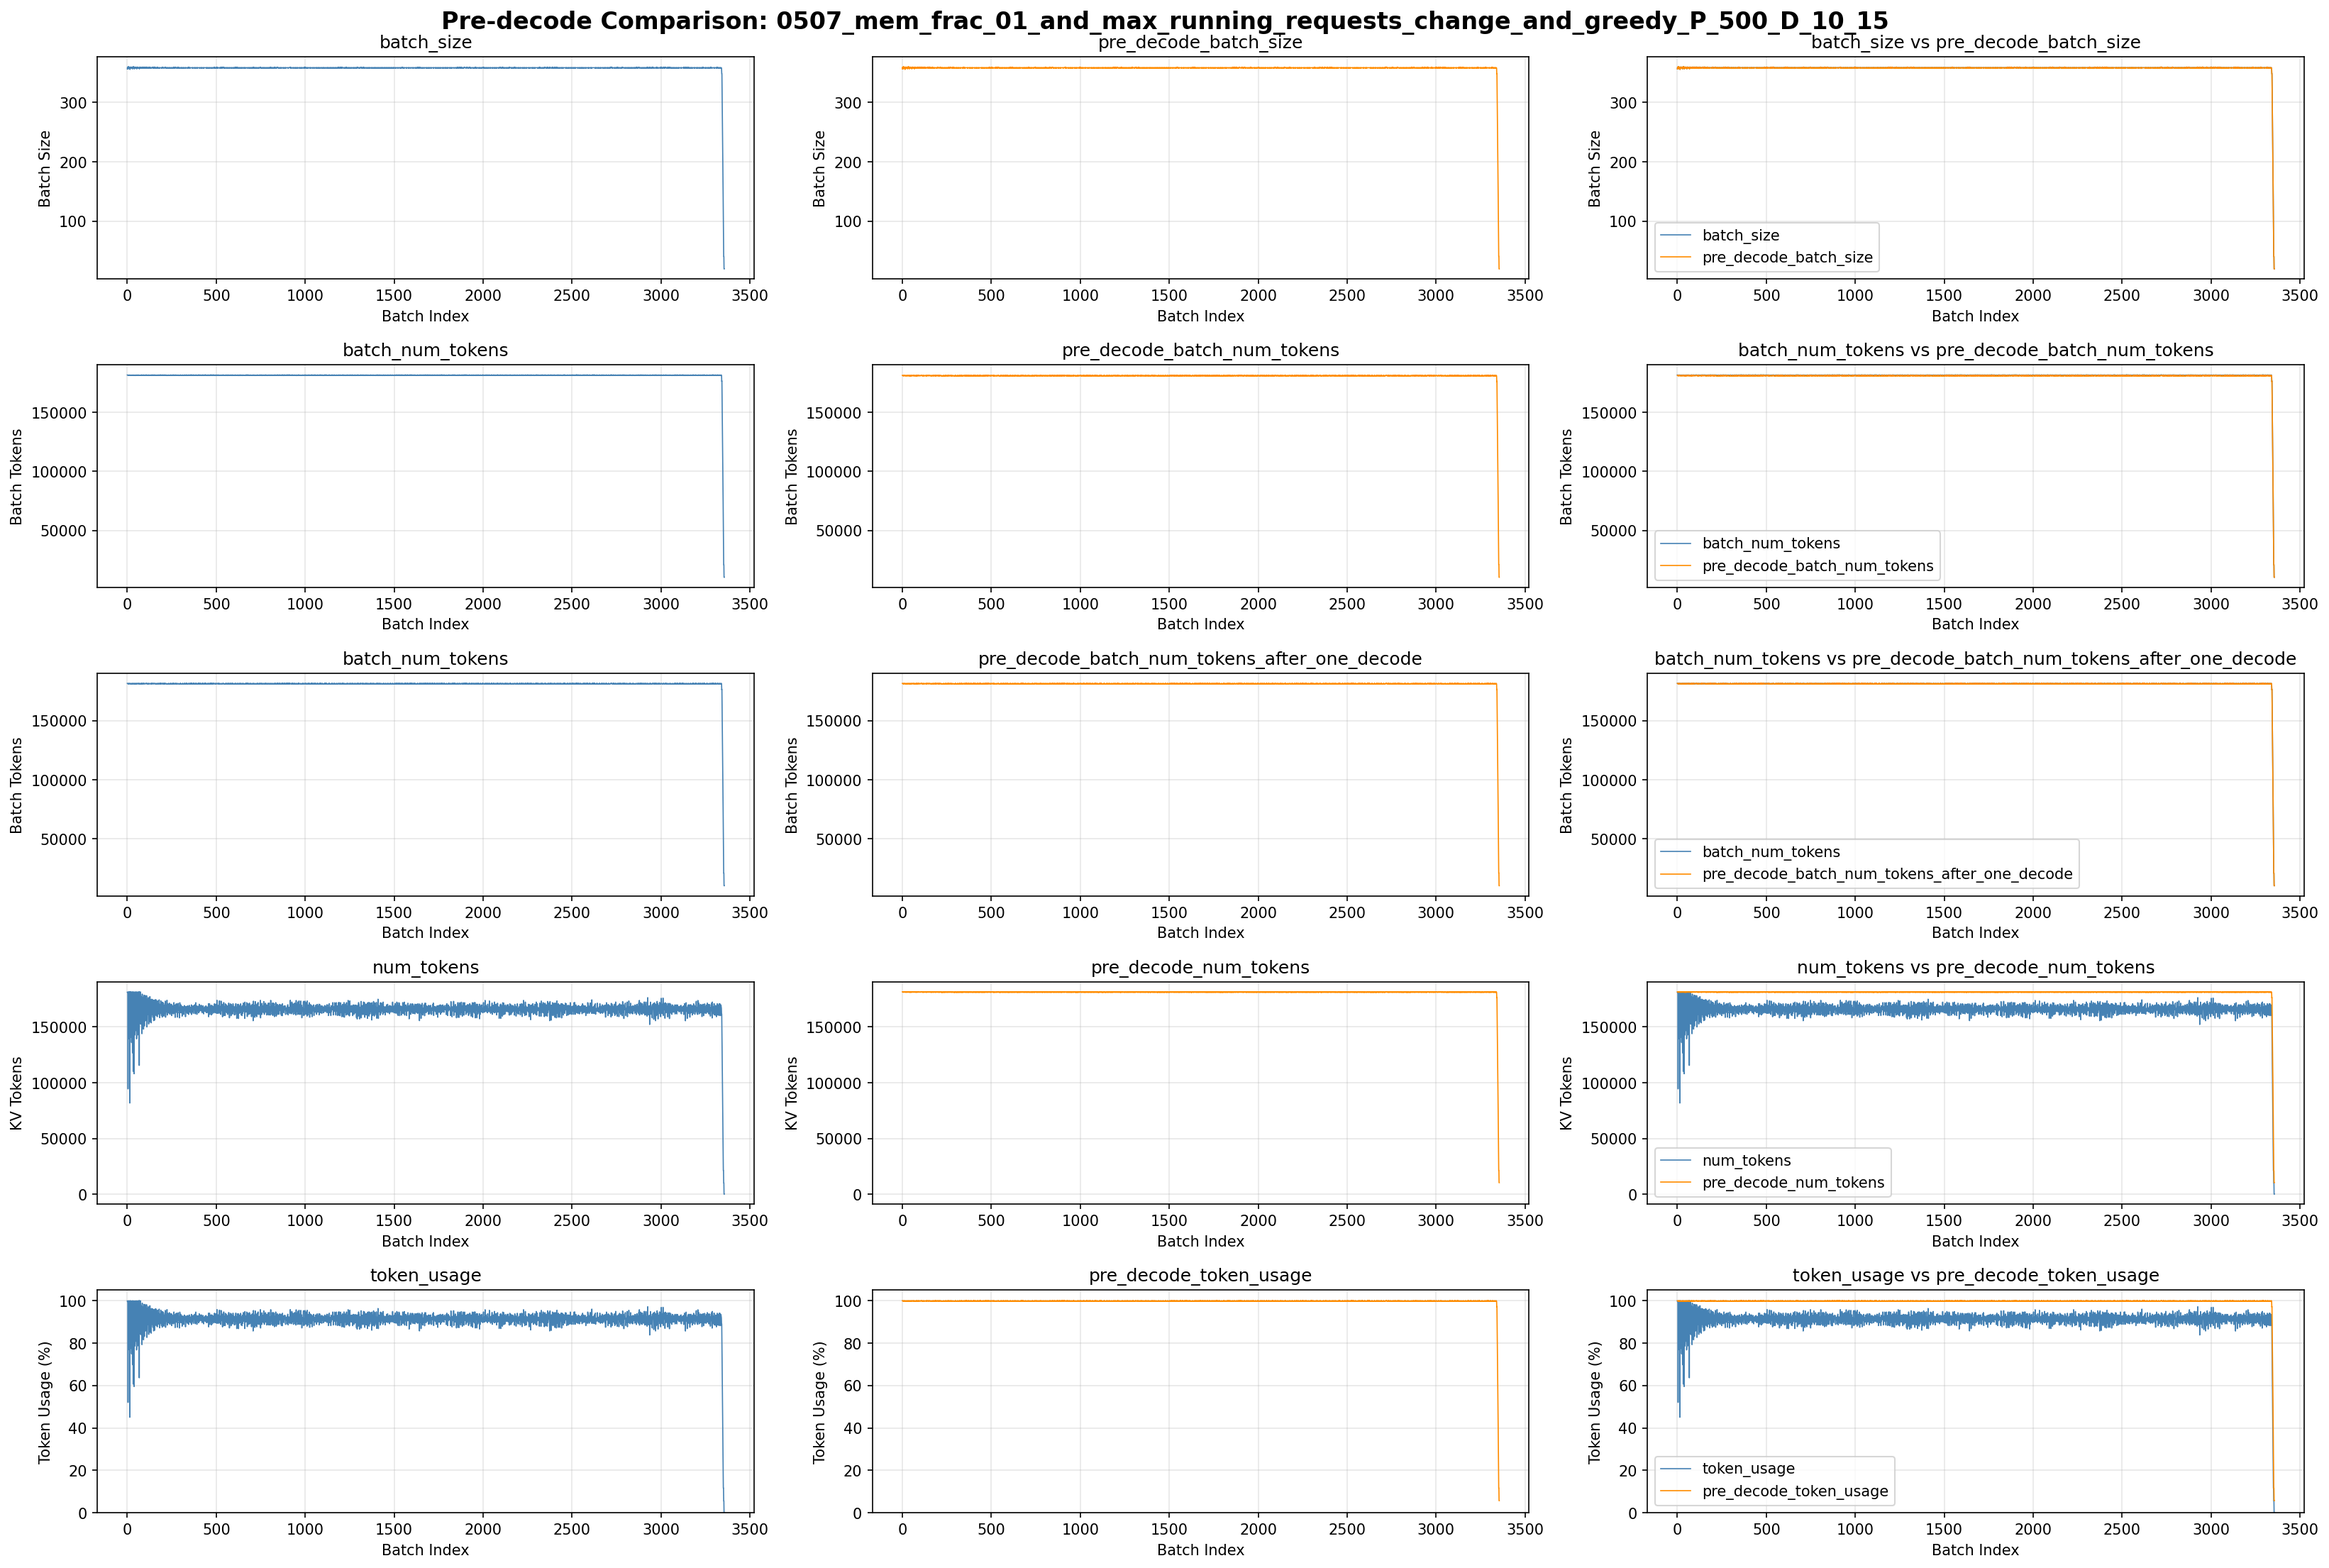
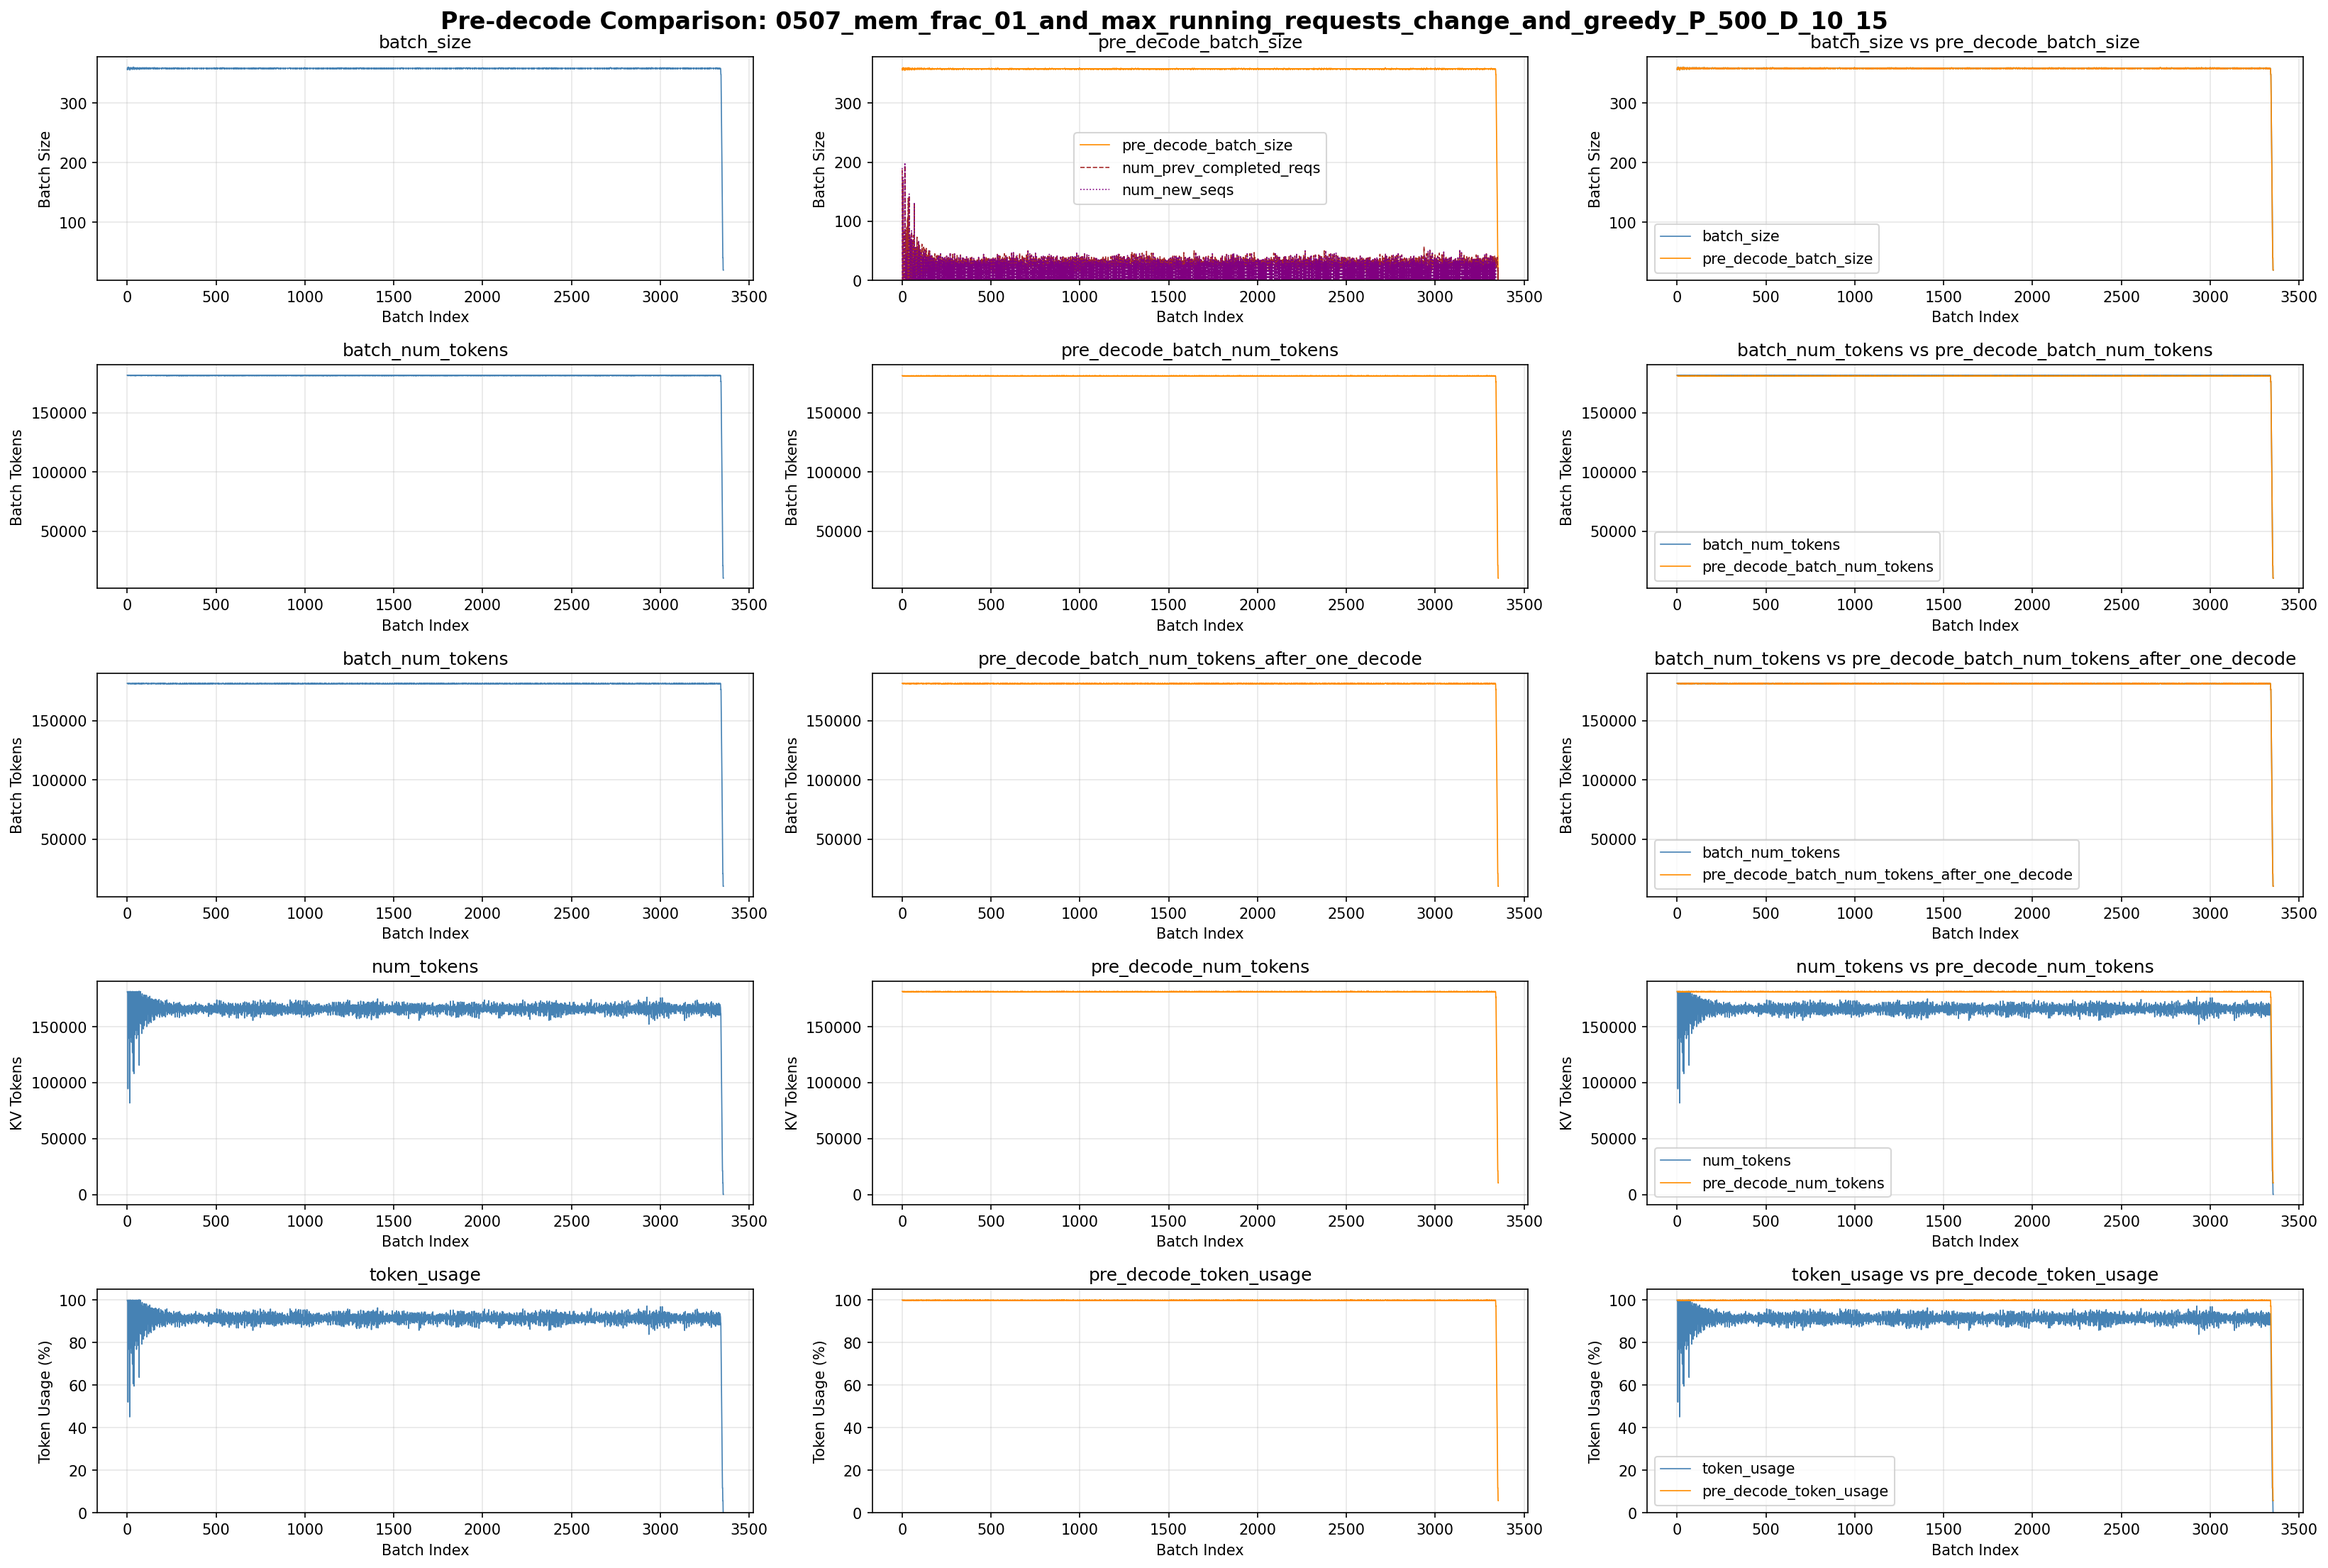
更新图片

diff --git a/mixing_experiments_for_DJ/sglang_mixing/cp_draw.py b/mixing_experiments_for_DJ/sglang_mixing/cp_draw.py
@@ -1,5 +1,5 @@
 """
-画图脚本：从 batch_metrics CSV 生成 4 个子图
+画图脚本：从 batch_metrics CSV 生成 batch_metrics 和 pre_decode 对比图
 
 用法:
     python cp_draw.py /path/to/exp_dir
@@ -125,7 +125,29 @@ def plot_pre_decode_comparison(df: pd.DataFrame, output_dir: Path, exp_name: str
         left_ax.set_ylabel(ylabel)
         left_ax.grid(True, alpha=0.3)
 
-        right_ax.plot(x, new_values, color="darkorange", linewidth=0.8)
+        right_ax.plot(x, new_values, color="darkorange", linewidth=0.8, label=new_col)
+        if (
+            new_col == "pre_decode_batch_size"
+            and "num_prev_completed_reqs" in df.columns
+            and "num_new_seqs" in df.columns
+        ):
+            right_ax.plot(
+                x,
+                df["num_prev_completed_reqs"],
+                color="brown",
+                linewidth=0.8,
+                linestyle="--",
+                label="num_prev_completed_reqs",
+            )
+            right_ax.plot(
+                x,
+                df["num_new_seqs"],
+                color="purple",
+                linewidth=0.8,
+                linestyle=":",
+                label="num_new_seqs",
+            )
+            right_ax.legend()
         right_ax.set_title(new_col)
         right_ax.set_xlabel("Batch Index")
         right_ax.set_ylabel(ylabel)
@@ -155,7 +177,10 @@ def plot_pre_decode_comparison(df: pd.DataFrame, output_dir: Path, exp_name: str
             else:
                 pad = (y_max - y_min) * 0.05
             left_ax.set_ylim(y_min - pad, y_max + pad)
-            right_ax.set_ylim(y_min - pad, y_max + pad)
+            if new_col == "pre_decode_batch_size":
+                right_ax.set_ylim(bottom=0)
+            else:
+                right_ax.set_ylim(y_min - pad, y_max + pad)
             compare_ax.set_ylim(y_min - pad, y_max + pad)
 
     output_path = output_dir / f"{exp_name}_pre_decode_comparison.png"
@@ -191,9 +216,19 @@ def process_experiment(input_dir: Path):
     df["batch_index"] = range(len(df))
 
     print(f"Loaded {len(df)} batches (after filtering)")
+    if "num_prev_completed_reqs" in df.columns:
+        print(
+            "  Completion/admission summary: "
+            f"prev_completed_sum={df['num_prev_completed_reqs'].sum():.0f}, "
+            f"new_seqs_sum={df['num_new_seqs'].sum():.0f}, "
+            f"max_prev_completed={df['num_prev_completed_reqs'].max():.0f}, "
+            f"max_new_seqs={df['num_new_seqs'].max():.0f}"
+        )
+    else:
+        print("  num_prev_completed_reqs not found; plotting num_new_seqs only")
 
-    # 创建 2x2 子图
-    fig, axes = plt.subplots(2, 2, figsize=(14, 10))
+    # 创建 2x3 子图：前两列保留原始布局，第三列用于 completion/admission。
+    fig, axes = plt.subplots(2, 3, figsize=(21, 10))
     fig.suptitle(f"Batch Metrics: {input_dir.parent.name}", fontsize=16, fontweight='bold')
 
     x = df["batch_index"]
@@ -234,6 +269,35 @@ def process_experiment(input_dir: Path):
     ax4.set_ylabel("num_new_seqs")
     ax4.set_title("New Sequences (per batch)")
     ax4.grid(True, alpha=0.3)
+
+    # 子图 5: Previous Completions vs New Sequences
+    ax5 = axes[0, 2]
+    ax5.plot(x, df["num_new_seqs"], color='purple', linewidth=0.8,
+             label='num_new_seqs')
+    if "num_prev_completed_reqs" in df.columns:
+        ax5.plot(x, df["num_prev_completed_reqs"], color='brown', linewidth=0.8,
+                 label='num_prev_completed_reqs', linestyle='--')
+    ax5.set_xlabel("Batch Index")
+    ax5.set_ylabel("Requests")
+    ax5.set_title("Previous Completions vs New Sequences")
+    ax5.legend()
+    ax5.grid(True, alpha=0.3)
+
+    # 子图 6: Batch Size with Completions
+    ax6 = axes[1, 2]
+    ax6.plot(x, df["batch_size"], color='steelblue', linewidth=0.8,
+             label='batch_size')
+    if "pre_decode_batch_size" in df.columns:
+        ax6.plot(x, df["pre_decode_batch_size"], color='darkorange',
+                 linewidth=0.8, label='pre_decode_batch_size', linestyle='-.')
+    if "num_prev_completed_reqs" in df.columns:
+        ax6.plot(x, df["num_prev_completed_reqs"], color='brown', linewidth=0.8,
+                 label='num_prev_completed_reqs', linestyle='--')
+    ax6.set_xlabel("Batch Index")
+    ax6.set_ylabel("Requests")
+    ax6.set_title("Batch Size and Previous Completions")
+    ax6.legend()
+    ax6.grid(True, alpha=0.3)
 
     plt.tight_layout()
     plt.savefig(output_path, dpi=150, bbox_inches='tight')
